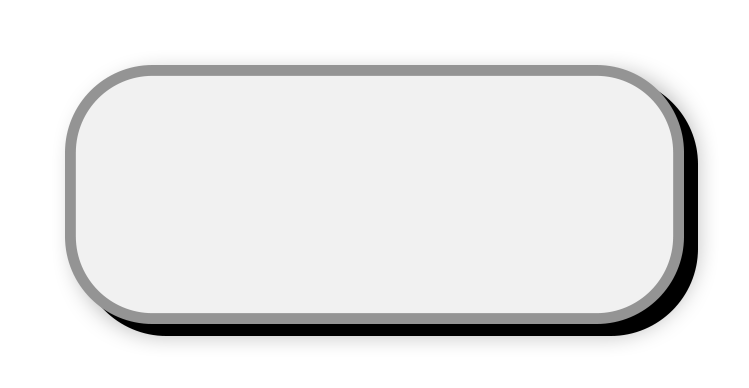
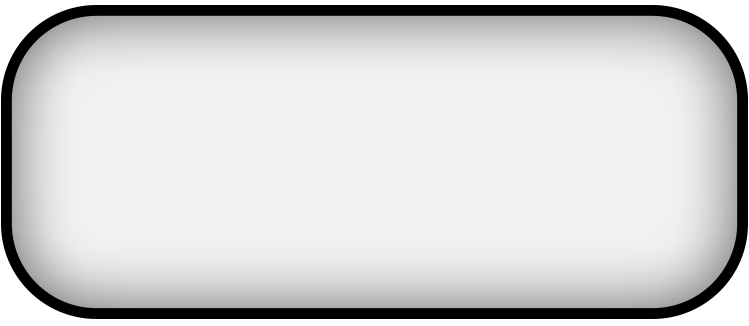
Improved button animations & sprites

diff --git a/Assets/MenuButton.cs b/Assets/MenuButton.cs
@@ -1,17 +1,26 @@
 using System;
 using System.Collections;
 using System.Collections.Generic;
+using DG.Tweening;
 using TMPro;
 using UnityEngine;
 using UnityEngine.EventSystems;
+using UnityEngine.UI;
 
-public class MenuButton : MonoBehaviour, ISelectHandler, IDeselectHandler, IPointerEnterHandler
+public class MenuButton : MonoBehaviour, ISelectHandler, IDeselectHandler, IPointerEnterHandler, IPointerExitHandler
 {
     [Header("Visual Settings")] 
     [SerializeField] private Color selectedColor = Color.white, defaultColor = Color.black;
-    private TMP_Text buttonText;
+    [SerializeField] float shadowTransitionDuration = .2f;
     
-    private void Start() => buttonText = transform.GetChild(0).GetComponent<TMP_Text>();
+    private TMP_Text buttonText;
+    private Shadow buttonShadow;
+
+    private void Start()
+    {
+        buttonText = transform.GetChild(0).GetComponent<TMP_Text>();
+        buttonShadow = GetComponent<Shadow>();  
+    }
     
     // public void OnClick()
     // {
@@ -30,6 +39,25 @@ public class MenuButton : MonoBehaviour, ISelectHandler, IDeselectHandler, IPoin
 
     public void OnPointerEnter(PointerEventData eventData)
     {
-        //play sound
+        AnimateShadow();
+    }
+
+    public void OnPointerExit(PointerEventData eventData)
+    {
+        AnimateShadow(true);
+    }
+
+    private void AnimateShadow(bool isOut = false)
+    {
+        buttonShadow.DOKill();
+        
+        Vector2 currentVector = buttonShadow.effectDistance;
+        Vector2 endVector = isOut ? new Vector2(0, 0) : new Vector2(25, -25); 
+        
+        DOTween.To(() => currentVector, x => currentVector = x, endVector, shadowTransitionDuration)
+            .OnUpdate(() =>
+            {
+                buttonShadow.effectDistance = currentVector;
+            });
     }
 }
